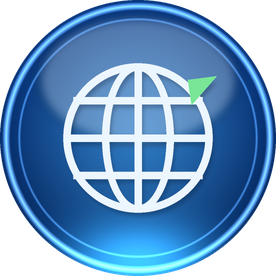
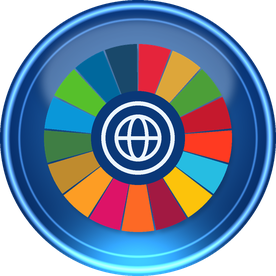
POLISIGS

diff --git a/frontend/src/components/menu/OrbitNode.tsx b/frontend/src/components/menu/OrbitNode.tsx
@@ -17,6 +17,8 @@ interface OrbitNodeProps {
    * "static": fila normal (ícono + label en línea), usado en el fallback mobile.
    */
   layout: "orbit" | "static";
+  /** Sin acceso para el rol actual: se muestra atenuado y sin enlace. */
+  locked?: boolean;
   left?: number;
   top?: number;
 }
@@ -29,6 +31,7 @@ export function OrbitNode({
   index,
   highlighted,
   layout,
+  locked = false,
   left,
   top,
 }: OrbitNodeProps) {
@@ -45,7 +48,9 @@ export function OrbitNode({
       className={cn(
         "relative flex items-center justify-center rounded-full ring-4 ring-white/10",
         "transition-transform duration-300 motion-safe:animate-float",
-        "group-hover:scale-110 group-hover:ring-white/30 group-focus-visible:scale-110",
+        locked
+          ? "opacity-50 grayscale"
+          : "group-hover:scale-110 group-hover:ring-white/30 group-focus-visible:scale-110",
         layout === "orbit" ? "h-16 w-16 md:h-20 md:w-20 lg:h-24 lg:w-24" : "h-16 w-16 sm:h-20 sm:w-20",
         highlighted && "ring-poli-gold/70 motion-safe:animate-glow-pulse"
       )}
@@ -58,13 +63,39 @@ export function OrbitNode({
         className="h-full w-full rounded-full object-cover"
         aria-hidden="true"
       />
-      {highlighted && (
-        <span className="absolute -right-1 -top-1 rounded-full bg-poli-gold px-2 py-0.5 text-2xs font-semibold text-white shadow-sm">
-          Tu rol
-        </span>
-      )}
     </span>
   );
+
+  const textoBloqueo = (
+    <span className="block text-2xs font-medium text-white/60">Acceso restringido a su rol</span>
+  );
+
+  if (locked) {
+    return layout === "static" ? (
+      <div
+        aria-disabled="true"
+        className="flex items-center gap-3 rounded-xl border border-white/10 bg-white/5 p-3"
+      >
+        {iconCircle}
+        <span className="text-sm font-semibold text-white/60">
+          {label}
+          {textoBloqueo}
+        </span>
+      </div>
+    ) : (
+      <div
+        aria-disabled="true"
+        style={{ left: `${left}%`, top: `${top}%` }}
+        className="group absolute flex w-28 -translate-x-1/2 -translate-y-1/2 cursor-not-allowed flex-col items-center gap-2 lg:w-32"
+      >
+        {iconCircle}
+        <span className="text-center text-sm font-semibold leading-tight text-white/60 lg:text-base">
+          {label}
+          {textoBloqueo}
+        </span>
+      </div>
+    );
+  }
 
   if (layout === "static") {
     return (

diff --git a/frontend/src/components/menu/LauncherScreen.tsx b/frontend/src/components/menu/LauncherScreen.tsx
@@ -5,7 +5,9 @@ import Image from "next/image";
 import { ArrowLeft, Wrench } from "lucide-react";
 import {
   NAV_ITEM_META,
+  NAV_ITEMS,
   OPERATIVE_HREFS,
+  canAccessHref,
   navItemsForRole,
   splitIntoRows,
 } from "@/config/navigation";
@@ -44,7 +46,11 @@ export function LauncherScreen() {
   const [seccion, setSeccion] = useState<"principal" | "operativa">("principal");
   const items = navItemsForRole(role).filter((item) => Boolean(NAV_ITEM_META[item.href]));
   const principales = items.filter((item) => !OPERATIVE_HREFS.has(item.href));
-  const operativos = items.filter((item) => OPERATIVE_HREFS.has(item.href));
+  // La sección operativa se ve siempre; los roles sin acceso (p. ej. "procesos") ven
+  // sus opciones atenuadas y sin enlace (el backend igualmente responde 403).
+  const operativos = NAV_ITEMS.filter(
+    (item) => OPERATIVE_HREFS.has(item.href) && Boolean(NAV_ITEM_META[item.href])
+  ).map((item) => ({ ...item, locked: !canAccessHref(role, item.href) }));
   const operativa = seccion === "operativa" && operativos.length > 0;
   const rows = splitIntoRows(operativa ? operativos : principales);
 

diff --git a/frontend/src/components/menu/OrbitWaveRow.tsx b/frontend/src/components/menu/OrbitWaveRow.tsx
@@ -8,6 +8,7 @@ interface OrbitWaveRowItem {
   href: string;
   label: string;
   iconSrc: string;
+  locked?: boolean;
 }
 
 interface OrbitWaveRowProps {
@@ -186,6 +187,7 @@ export function OrbitWaveRow({ items, rowIndex, currentRole }: OrbitWaveRowProps
               index={index}
               highlighted={isHighlighted(meta.roles, currentRole)}
               layout="static"
+              locked={item.locked}
             />
           );
         })}
@@ -206,6 +208,7 @@ export function OrbitWaveRow({ items, rowIndex, currentRole }: OrbitWaveRowProps
               index={index}
               highlighted={isHighlighted(meta.roles, currentRole)}
               layout="orbit"
+              locked={item.locked}
               left={point.x}
               top={(point.y / VIEWBOX_HEIGHT) * 100}
             />

diff --git a/frontend/src/app/(dashboard)/polisigs/page.tsx b/frontend/src/app/(dashboard)/polisigs/page.tsx
@@ -37,8 +37,8 @@ interface ObjetivoMeta {
 
 const OBJETIVO_META: Record<number, ObjetivoMeta> = {
   1: { img: "/img/polisigs/obj-ods.png", oscuro: false },
-  2: { img: "/img/polisigs/obj1.png", oscuro: true },
-  3: { img: "/img/polisigs/obj2.png", oscuro: false },
+  2: { img: "/img/polisigs/obj-calidad.png", oscuro: true },
+  3: { img: "/img/polisigs/obj-procesos.png", oscuro: false },
   4: { img: "/img/polisigs/obj3.png", oscuro: true },
   5: { img: "/img/polisigs/obj4.png", oscuro: false },
   6: { img: "/img/polisigs/obj-legal.png", oscuro: true },
